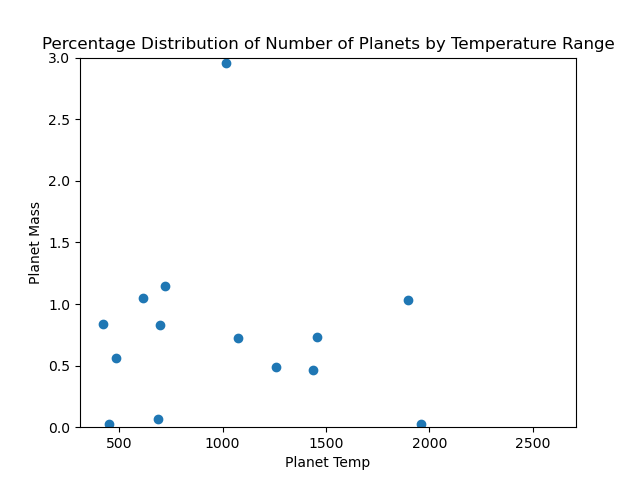
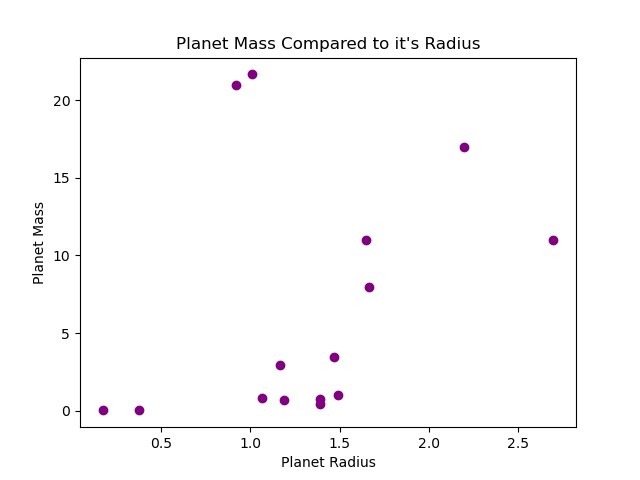
goddamn

diff --git a/processing.py b/processing.py
@@ -97,11 +97,10 @@ def main():
     plt.savefig('visualization3.png')
     plt.show()
 
-    plt.scatter(planet_temp, planet_mass)
-    plt.xlabel('Planet Temp')
+    plt.scatter(planet_radius, planet_mass, color='purple')
+    plt.xlabel('Planet Radius')
     plt.ylabel('Planet Mass')
-    plt.ylim(0, 3)
-    plt.title('Percentage Distribution of Number of Planets by Temperature Range')
+    plt.title("Planet Mass Compared to it's Radius")
     plt.savefig('visualization4.png')
     plt.show()
 
